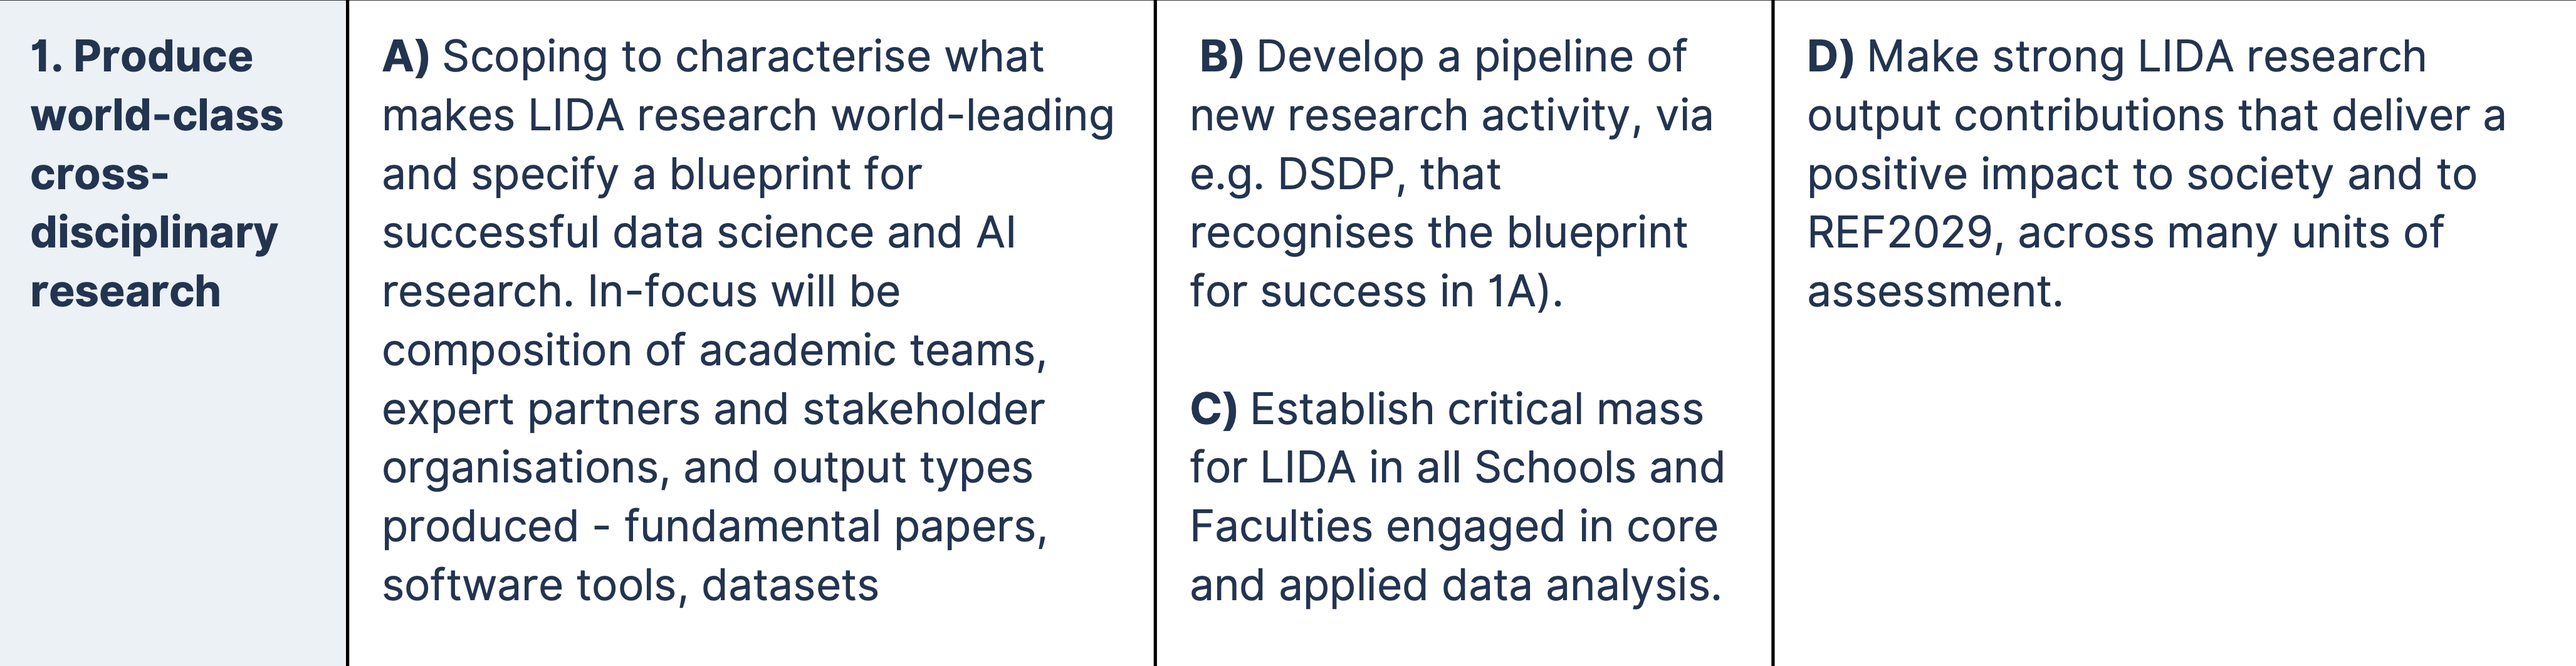
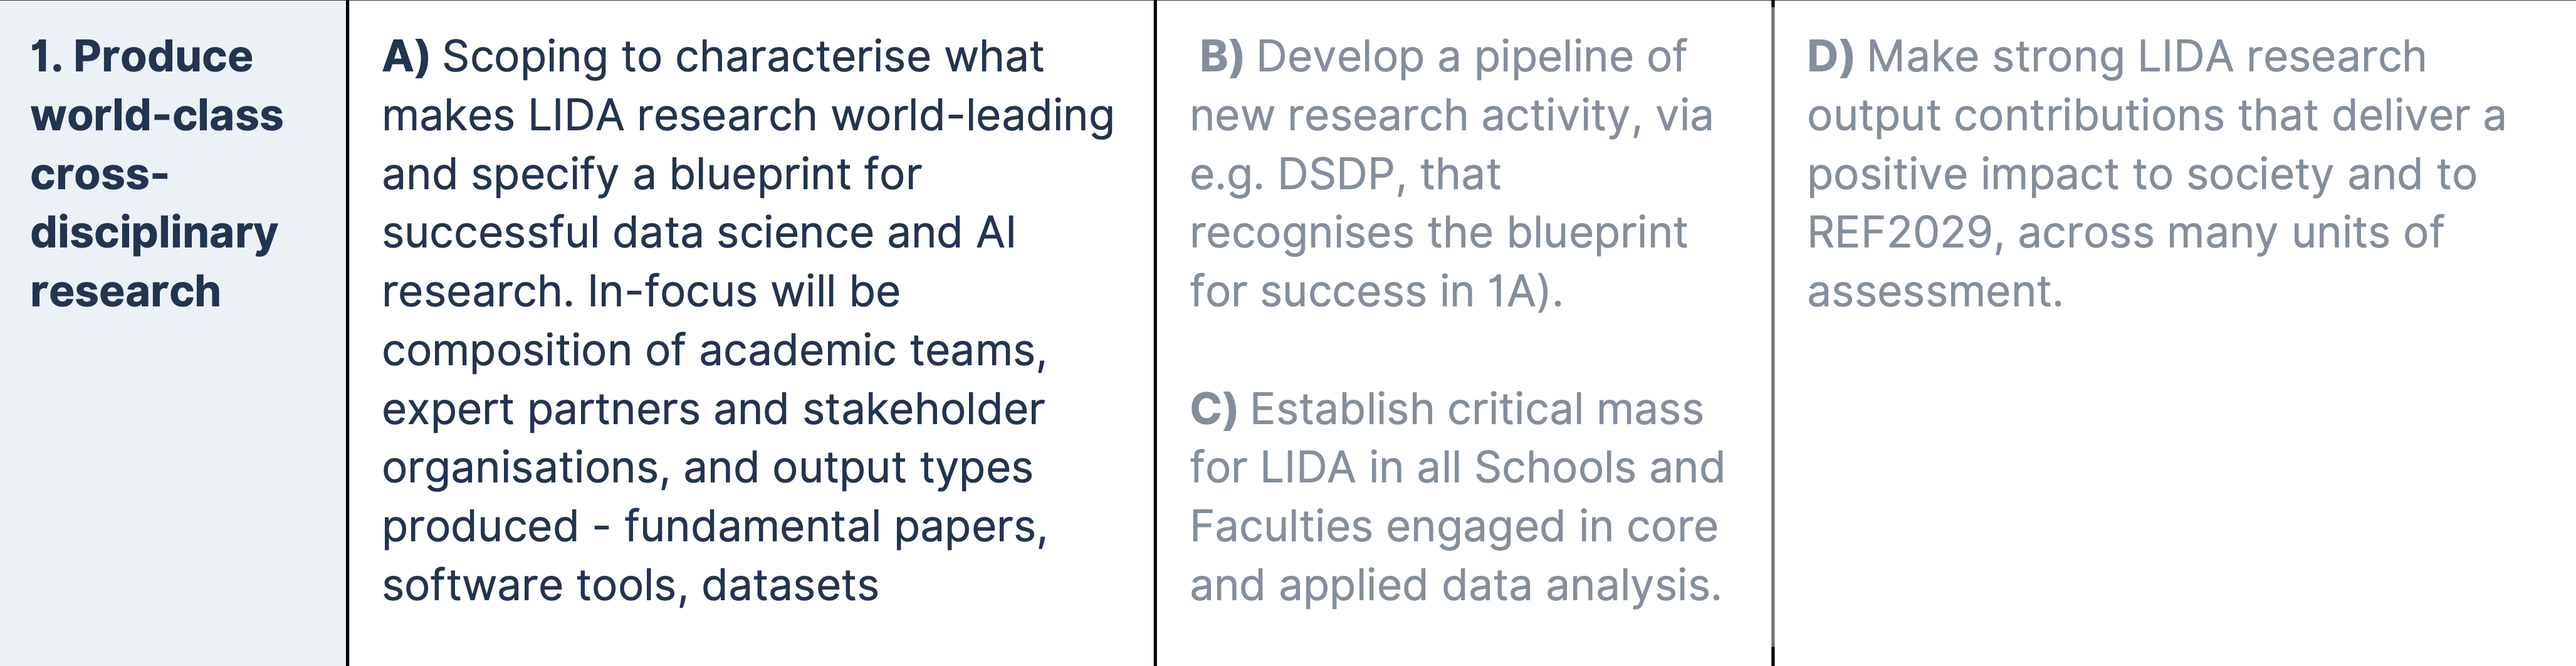
R&I Strategy

diff --git a/lida/R&IStrategy.html b/lida/R&IStrategy.html
@@ -328,7 +328,7 @@
 
 <section id="title-slide" class="quarto-title-block center">
   <h1 class="title"><span style="font-size:.9em;"><br> LIDA R&amp;I Strategy <br> 2024-2029 </span></h1>
-  <p class="subtitle"><span style="font-size:1.5em;">Communities &amp; Programmes<br> Planning </span></p>
+  <p class="subtitle"><span style="font-size:1.5em;">Community &amp; Programme <br> Planning </span></p>
 
 <div class="quarto-title-authors">
 </div>
@@ -337,6 +337,19 @@
 <section class="slide level2">
 
 <p><img data-src="img/front.png" class="absolute" style="top: 55px; left: 0px; width: 35%; "></p>
+<aside class="notes">
+<p>Strategy motivating this event</p>
+<style type="text/css">
+        span.MJX_Assistive_MathML {
+          position:absolute!important;
+          clip: rect(1px, 1px, 1px, 1px);
+          padding: 1px 0 0 0!important;
+          border: 0!important;
+          height: 1px!important;
+          width: 1px!important;
+          overflow: hidden!important;
+          display:block!important;
+      }</style></aside>
 </section>
 <section class="slide level2">
 
@@ -364,18 +377,101 @@
 </ul>
 </div>
 </div></div>
+<aside class="notes">
+<p>Deliver: great work … that is funded … and has impact … do so through community.</p>
+<style type="text/css">
+        span.MJX_Assistive_MathML {
+          position:absolute!important;
+          clip: rect(1px, 1px, 1px, 1px);
+          padding: 1px 0 0 0!important;
+          border: 0!important;
+          height: 1px!important;
+          width: 1px!important;
+          overflow: hidden!important;
+          display:block!important;
+      }</style></aside>
 </section>
 <section class="slide level2">
 
-<p><img data-src="img/front.png" class="absolute" style="top: 55px; left: 0px; width: 35%; "> <img data-src="img/offer_r&amp;I.png" class="absolute" style="top: 0px; left: 420px; width: 50%; "></p>
+<p><img data-src="img/front.png" class="absolute" style="top: 55px; left: 0px; width: 35%; "> <img data-src="img/summary_title.png" class="absolute" style="top: 0px; left: 420px; width: 50%; "></p>
+<div class="columns">
+<div class="column" style="width:40%;">
+
+</div><div class="column" style="width:60%;">
+<div style="font-size: 65%;">
+<p><br><br><br><br></p>
+<p><strong>Research and Innovation</strong></p>
+<ul>
+<li>Produce <strong>world-class cross disciplinary research</strong>.</li>
+<li>Diversify &amp; increase <strong>data science &amp; AI research income</strong>.</li>
+<li>Deliver <strong>impactful</strong> research &amp; innovation.</li>
+<li>Develop, support &amp; retain an inclusive <strong>research community</strong>.</li>
+</ul>
+</div>
+</div></div>
+<aside class="notes">
+<p>Deliver: great work … that is funded … and has impact … do so through community.</p>
+<style type="text/css">
+        span.MJX_Assistive_MathML {
+          position:absolute!important;
+          clip: rect(1px, 1px, 1px, 1px);
+          padding: 1px 0 0 0!important;
+          border: 0!important;
+          height: 1px!important;
+          width: 1px!important;
+          overflow: hidden!important;
+          display:block!important;
+      }</style></aside>
 </section>
 <section class="slide level2">
 
-<p><img data-src="img/front.png" class="absolute" style="top: 55px; left: 0px; width: 35%; "> <img data-src="img/offer_r&amp;I_hl.png" class="absolute" style="top: 0px; left: 420px; width: 50%; "></p>
-</section>
-<section class="slide level2">
+<!--
 
+![](img/front.png){.absolute top=55 left=0 width="35%"}
+![](img/offer_r&I.png){.absolute top=0 left=420 width="50%"}
+
+
+---
+
+![](img/front.png){.absolute top=55 left=0 width="35%"}
+![](img/offer_r&I_hl.png){.absolute top=0 left=420 width="50%"}
+
+---
+
+-->
 <p><img data-src="img/front.png" class="absolute" style="top: 55px; left: 0px; width: 35%; "> <img data-src="img/table.png" class="absolute" style="top: 0px; left: 420px; width: 50%; "></p>
+<aside class="notes">
+<p>Table sets out objectives to meet this ambition. Left-column of this to drive the agenda for today.</p>
+<style type="text/css">
+        span.MJX_Assistive_MathML {
+          position:absolute!important;
+          clip: rect(1px, 1px, 1px, 1px);
+          padding: 1px 0 0 0!important;
+          border: 0!important;
+          height: 1px!important;
+          width: 1px!important;
+          overflow: hidden!important;
+          display:block!important;
+      }</style></aside>
+</section>
+<section id="agenda" class="slide level2">
+<h2>Agenda</h2>
+<div style="font-size: 85%;">
+<ul>
+<li>0930 – 1000 | Introducing LIDA R&amp;I Strategy 2024–2029</li>
+<li>1000 – 1045 | LIDA Communities and Programmes
+<ul>
+<li>What your Community/Programme <em>is</em></li>
+<li>What your Community/Programme <em>could be</em></li>
+</ul></li>
+<li>1045 – 1100 | Break</li>
+<li>1100 – 1145 | <strong>Breakouts with C&amp;P Leads</strong></li>
+<li>1145 – 1200 | Break</li>
+<li>1200 – 1245 | Reporting back</li>
+<li>1245 – 1300 | Outcomes and actions</li>
+<li>1300 – 1400 | Lunch</li>
+</ul>
+</div>
 </section>
 <section class="slide level2">
 
@@ -396,6 +492,19 @@
 <p>Scoping to characterise <strong>what makes data-driven research world-leading and specify a blueprint for successful data science and Al research</strong>. In-focus will be <strong>composition of academic teams, expert partners and stakeholder organisations, and output types produced</strong> - fundamental papers, software tools, datasets</p>
 </div>
 </div></div>
+<aside class="notes">
+<p>What excellent DS and AI research looks like in your field. Shifting, so keen to know what the characteristics of impressive data-driven science is. In my domain: about practice, rigour as much as it is stunning empirical / methodological discovery. Useful to know what others think.</p>
+<style type="text/css">
+        span.MJX_Assistive_MathML {
+          position:absolute!important;
+          clip: rect(1px, 1px, 1px, 1px);
+          padding: 1px 0 0 0!important;
+          border: 0!important;
+          height: 1px!important;
+          width: 1px!important;
+          overflow: hidden!important;
+          display:block!important;
+      }</style></aside>
 </section>
 <section class="slide level2">
 
@@ -416,6 +525,20 @@
 <p>Develop <strong>new models</strong> for generating and increasing data science and AI research income, working <strong>with RIS</strong>.</p>
 </div>
 </div></div>
+<aside class="notes">
+<p>Scoping out what funding opportunities / grand challenges are out there. Or probably more the conditions that need to start looking for opportuities. Contact networks, partners etc.</p>
+<p>Beyond this session…</p>
+<style type="text/css">
+        span.MJX_Assistive_MathML {
+          position:absolute!important;
+          clip: rect(1px, 1px, 1px, 1px);
+          padding: 1px 0 0 0!important;
+          border: 0!important;
+          height: 1px!important;
+          width: 1px!important;
+          overflow: hidden!important;
+          display:block!important;
+      }</style></aside>
 </section>
 <section class="slide level2">
 
@@ -433,10 +556,24 @@
 <p><strong>Strategic Aim 3</strong> <br> <em>Deliver impactful research and innovation</em></p>
 </div>
 <div style="font-size: 65%;">
-<p>Identify <strong>exemplars</strong> of impact-in-the-small and impact-in-the-large, from <strong>applied</strong> and <strong>underpinning</strong> data science <strong>disciplines</strong>;</p>
+<p>Identify <strong>exemplars of impact</strong>, from <strong>applied</strong> and <strong>underpinning data science disciplines</strong>;</p>
 <p>Identify key and emerging <strong>research agendas, technologies and methods in modern data science</strong>, specialised to research discipline.</p>
 </div>
 </div></div>
+<aside class="notes">
+<p>Scoping out what impact looks like in your domain / discipline.</p>
+<p>What are those leading discipline doing in terms of research practice.</p>
+<style type="text/css">
+        span.MJX_Assistive_MathML {
+          position:absolute!important;
+          clip: rect(1px, 1px, 1px, 1px);
+          padding: 1px 0 0 0!important;
+          border: 0!important;
+          height: 1px!important;
+          width: 1px!important;
+          overflow: hidden!important;
+          display:block!important;
+      }</style></aside>
 </section>
 <section class="slide level2">
 
@@ -457,8 +594,22 @@
 <p>Attract and nurture LIDA researchers. Proactively encourage new and established staff to partake in LIDA research. Provide guidance and career support.</p>
 </div>
 </div></div>
+<aside class="notes">
+<p>We want it to be natural that people engage in Communities and Programmes because it is the obvious thing to do: offers something beyond their immediate school.</p>
+<p>Useful to hear experience of running these – and things that we can do to nurture/support researchers.</p>
+<style type="text/css">
+        span.MJX_Assistive_MathML {
+          position:absolute!important;
+          clip: rect(1px, 1px, 1px, 1px);
+          padding: 1px 0 0 0!important;
+          border: 0!important;
+          height: 1px!important;
+          width: 1px!important;
+          overflow: hidden!important;
+          display:block!important;
+      }</style></aside>
 </section>
-<section id="agenda" class="slide level2">
+<section id="agenda-1" class="slide level2">
 <h2>Agenda</h2>
 <div style="font-size: 85%;">
 <ul>
@@ -476,8 +627,21 @@
 <li>1300 – 1400 | Lunch</li>
 </ul>
 </div>
+<aside class="notes">
+<p>Show folders.</p>
+<style type="text/css">
+        span.MJX_Assistive_MathML {
+          position:absolute!important;
+          clip: rect(1px, 1px, 1px, 1px);
+          padding: 1px 0 0 0!important;
+          border: 0!important;
+          height: 1px!important;
+          width: 1px!important;
+          overflow: hidden!important;
+          display:block!important;
+      }</style></aside>
 </section>
-<section id="agenda-1" class="slide level2">
+<section id="agenda-2" class="slide level2">
 <h2>Agenda</h2>
 <div style="font-size: 85%;">
 <ul>
@@ -497,14 +661,14 @@
 </div>
 <div class="cell">
 <div class="cell-output-display">
-<div class="countdown" id="timer_3a740506" data-update-every="1" tabindex="0" style="right:0;bottom:0;margin:0.5em;font-size:2em;">
+<div class="countdown" id="timer_7a547fd5" data-update-every="1" tabindex="0" style="right:0;bottom:0;margin:0.5em;font-size:2em;">
 <div class="countdown-controls"><button class="countdown-bump-down">−</button><button class="countdown-bump-up">+</button></div>
 <code class="countdown-time"><span class="countdown-digits minutes">45</span><span class="countdown-digits colon">:</span><span class="countdown-digits seconds">00</span></code>
 </div>
 </div>
 </div>
 </section>
-<section id="agenda-2" class="slide level2">
+<section id="agenda-3" class="slide level2">
 <h2>Agenda</h2>
 <div style="font-size: 85%;">
 <ul>
@@ -524,17 +688,17 @@
 </div>
 <div class="cell">
 <div class="cell-output-display">
-<div class="countdown" id="timer_c6b005c5" data-update-every="1" tabindex="0" style="right:0;bottom:0;margin:0.5em;font-size:2em;">
+<div class="countdown" id="timer_de81a134" data-update-every="1" tabindex="0" style="right:0;bottom:0;margin:0.5em;font-size:2em;">
 <div class="countdown-controls"><button class="countdown-bump-down">−</button><button class="countdown-bump-up">+</button></div>
 <code class="countdown-time"><span class="countdown-digits minutes">15</span><span class="countdown-digits colon">:</span><span class="countdown-digits seconds">00</span></code>
 </div>
 </div>
 </div>
 </section>
-<section id="agenda-3" class="slide level2">
+<section id="agenda-4" class="slide level2">
 <h2>Agenda</h2>
 <div style="text-align: right;">
-<p><code>https://t.ly/utZHw</code></p>
+<p><code>https://t.ly/oy_vX</code></p>
 </div>
 <div style="font-size: 85%;">
 <ul>
@@ -554,14 +718,14 @@
 </div>
 <div class="cell">
 <div class="cell-output-display">
-<div class="countdown" id="timer_87315bb4" data-update-every="1" tabindex="0" style="right:0;bottom:0;margin:0.5em;font-size:2em;">
+<div class="countdown" id="timer_9b10f9c6" data-update-every="1" tabindex="0" style="right:0;bottom:0;margin:0.5em;font-size:2em;">
 <div class="countdown-controls"><button class="countdown-bump-down">−</button><button class="countdown-bump-up">+</button></div>
 <code class="countdown-time"><span class="countdown-digits minutes">45</span><span class="countdown-digits colon">:</span><span class="countdown-digits seconds">00</span></code>
 </div>
 </div>
 </div>
 </section>
-<section id="agenda-4" class="slide level2">
+<section id="agenda-5" class="slide level2">
 <h2>Agenda</h2>
 <div style="font-size: 85%;">
 <ul>
@@ -581,14 +745,14 @@
 </div>
 <div class="cell">
 <div class="cell-output-display">
-<div class="countdown" id="timer_5a7c8308" data-update-every="1" tabindex="0" style="right:0;bottom:0;margin:0.5em;font-size:2em;">
+<div class="countdown" id="timer_e0cb4ea0" data-update-every="1" tabindex="0" style="right:0;bottom:0;margin:0.5em;font-size:2em;">
 <div class="countdown-controls"><button class="countdown-bump-down">−</button><button class="countdown-bump-up">+</button></div>
 <code class="countdown-time"><span class="countdown-digits minutes">15</span><span class="countdown-digits colon">:</span><span class="countdown-digits seconds">00</span></code>
 </div>
 </div>
 </div>
 </section>
-<section id="agenda-5" class="slide level2">
+<section id="agenda-6" class="slide level2">
 <h2>Agenda</h2>
 <div style="font-size: 85%;">
 <ul>
@@ -608,7 +772,7 @@
 </div>
 <div class="cell">
 <div class="cell-output-display">
-<div class="countdown" id="timer_aadd51ce" data-update-every="1" tabindex="0" style="right:0;bottom:0;margin:0.5em;font-size:2em;">
+<div class="countdown" id="timer_eed1f3fe" data-update-every="1" tabindex="0" style="right:0;bottom:0;margin:0.5em;font-size:2em;">
 <div class="countdown-controls"><button class="countdown-bump-down">−</button><button class="countdown-bump-up">+</button></div>
 <code class="countdown-time"><span class="countdown-digits minutes">45</span><span class="countdown-digits colon">:</span><span class="countdown-digits seconds">00</span></code>
 </div>
